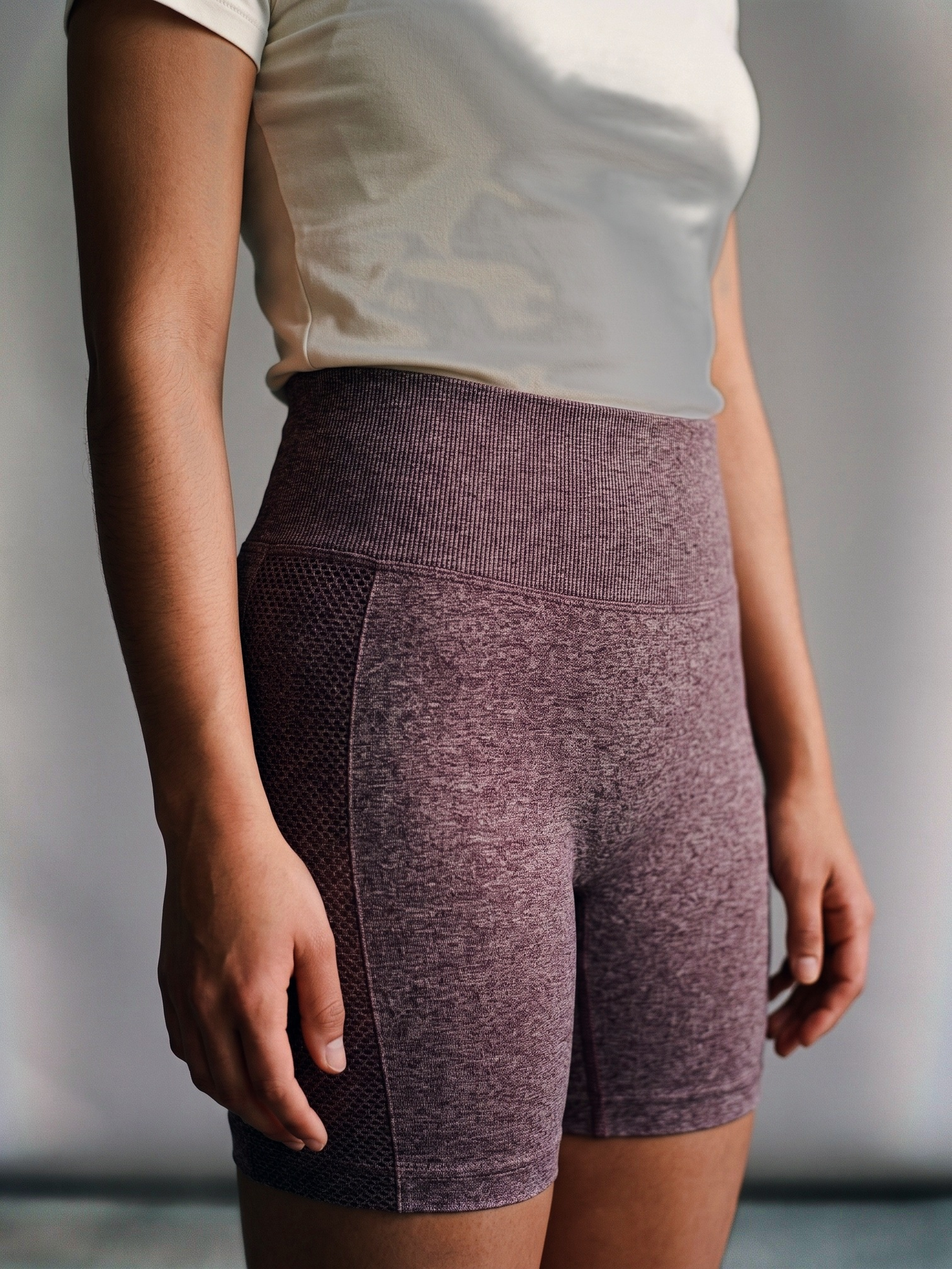
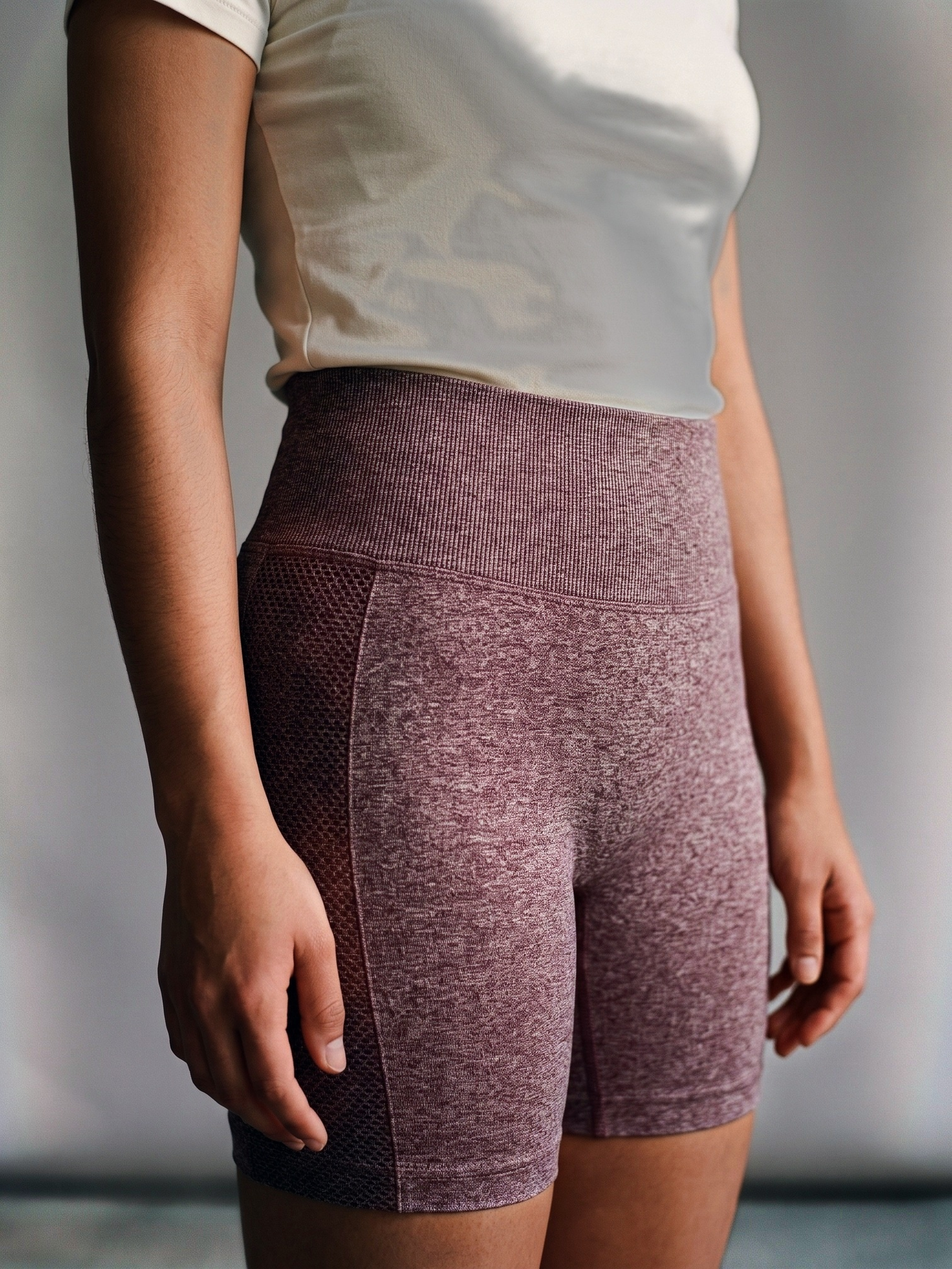
Fix Wine short colour drift; drop the move shot (wrong model)
Two defects caught in review of the just-shipped Stay-Put Short imagery:

1. The four Wine photos were generated as separate Gemini shots and drifted
   apart in garment colour -- hero/move read as a rich dusty wine, back/detail
   read visibly paler and greyer. Added tools/imagery/colormatch.py (a
   garment-masked mean/std colour match to a reference shot, wide feather so
   the mask edge never seams) and used it to re-grade short-wine-back.jpg and
   short-wine-detail.jpg to match short-wine.jpg. Blush's spread was much
   smaller and left alone.

2. short-wine-move.jpg (and its short-blush-move.jpg colourway composite)
   show a visibly different model -- a shoulder-length bob vs. the tied-back
   hair in every other shot. Dropped "-move" from both colourways' `images`
   arrays in products.js rather than ship two different women as the same
   "house model." Files are left on disk, unreferenced, in case that pose
   gets regenerated correctly later.

Cache-buster bumped to v=50 (products.js and this short's own image URLs)
so the corrected files aren't served stale from anyone's cache.

Claude-Session: https://claude.ai/code/session_01TH6XjwVeudERd93hT9p8gq

Changed region(s): [[0.4352, 0.3125, 0.746, 0.9375], [0.746, 0.5625, 0.8082, 0.6562], [0.8082, 0.7188, 0.8393, 0.75]]

diff --git a/assets/products.js b/assets/products.js
@@ -100,10 +100,10 @@ window.COVERLINE_PRODUCTS = [
     modelNote: "Shown in size S on our house model (5\'3\"). Product images are AI-generated; the size chart is the supplier\'s real garment measurements.",
     care: "Seamless stretch knit. Machine wash cold, hang or lay flat to dry. Skip the tumble dryer — it\'s what kills the stretch in every pair you\'ve owned before.",
     colors: [
-      { key: "maroon", label: "Wine", hex: "#946468", image: "/assets/product-images/short-wine.jpg?v=48", images: ["/assets/product-images/short-wine.jpg?v=48", "/assets/product-images/short-wine-move.jpg?v=48", "/assets/product-images/short-wine-back.jpg?v=48", "/assets/product-images/short-wine-detail.jpg?v=48"] },
-      { key: "pink", label: "Blush", hex: "#c59c9d", image: "/assets/product-images/short-blush.jpg?v=48", images: ["/assets/product-images/short-blush.jpg?v=48", "/assets/product-images/short-blush-move.jpg?v=48", "/assets/product-images/short-blush-back.jpg?v=48", "/assets/product-images/short-blush-detail.jpg?v=48"] }
+      { key: "maroon", label: "Wine", hex: "#946468", image: "/assets/product-images/short-wine.jpg?v=50", images: ["/assets/product-images/short-wine.jpg?v=50", "/assets/product-images/short-wine-back.jpg?v=50", "/assets/product-images/short-wine-detail.jpg?v=50"] },
+      { key: "pink", label: "Blush", hex: "#c59c9d", image: "/assets/product-images/short-blush.jpg?v=49", images: ["/assets/product-images/short-blush.jpg?v=49", "/assets/product-images/short-blush-back.jpg?v=49", "/assets/product-images/short-blush-detail.jpg?v=49"] }
     ],
-    image: "/assets/product-images/short-wine.jpg?v=48",
+    image: "/assets/product-images/short-wine.jpg?v=50",
     swatch: function(){ return '<rect width="300" height="400" fill="var(--paper-raised)"/><path d="M0,270 C 100,320 200,240 300,280 L300,400 L0,400 Z" fill="var(--accent-2)" opacity=".5"/><path d="M0,170 C 100,220 200,120 300,180" fill="none" stroke="var(--accent)" stroke-width="1"/>'; }
   }
 ];

diff --git a/product.html b/product.html
@@ -75,7 +75,7 @@
   </div>
 </footer>
 
-<script src="/assets/products.js?v=49"></script>
+<script src="/assets/products.js?v=50"></script>
 <script src="/assets/sizecharts.js?v=2"></script>
 <script src="/assets/reviews.js?v=1"></script>
 <script src="/assets/config.js?v=4"></script>

diff --git a/index.html b/index.html
@@ -100,7 +100,7 @@
   </div>
 </footer>
 
-<script src="/assets/products.js?v=49"></script>
+<script src="/assets/products.js?v=50"></script>
 <script src="/assets/config.js?v=4"></script>
 <script src="/assets/cart.js?v=10"></script>
 <script>

diff --git a/review.html b/review.html
@@ -74,7 +74,7 @@
   </div>
 </footer>
 
-<script src="/assets/products.js?v=49"></script>
+<script src="/assets/products.js?v=50"></script>
 <script src="/assets/config.js?v=4"></script>
 <script src="/assets/cart.js?v=10"></script>
 <script>

diff --git a/404.html b/404.html
@@ -46,7 +46,7 @@
   </div>
 </footer>
 
-<script src="/assets/products.js?v=49"></script>
+<script src="/assets/products.js?v=50"></script>
 <script src="/assets/config.js?v=4"></script>
 <script src="/assets/cart.js?v=10"></script>
 </body>

diff --git a/privacy.html b/privacy.html
@@ -85,7 +85,7 @@
   </div>
 </footer>
 
-<script src="/assets/products.js?v=49"></script>
+<script src="/assets/products.js?v=50"></script>
 <script src="/assets/config.js?v=4"></script>
 <script src="/assets/cart.js?v=10"></script>
 </body>

diff --git a/shipping-returns.html b/shipping-returns.html
@@ -78,7 +78,7 @@
   </div>
 </footer>
 
-<script src="/assets/products.js?v=49"></script>
+<script src="/assets/products.js?v=50"></script>
 <script src="/assets/config.js?v=4"></script>
 <script src="/assets/cart.js?v=10"></script>
 </body>

diff --git a/terms.html b/terms.html
@@ -92,7 +92,7 @@
   </div>
 </footer>
 
-<script src="/assets/products.js?v=49"></script>
+<script src="/assets/products.js?v=50"></script>
 <script src="/assets/config.js?v=4"></script>
 <script src="/assets/cart.js?v=10"></script>
 </body>

diff --git a/tools/imagery/colormatch.py b/tools/imagery/colormatch.py
@@ -1,0 +1,61 @@
+#!/usr/bin/env python3
+"""One-off fix (14 Sep 2026): the four Wine short photos (hero/move/back/detail) were generated as
+separate Gemini shots and drifted apart in garment colour/exposure -- hero and move read as a rich
+dusty wine, back and detail read visibly paler/greyer. This re-grades the garment pixels of the
+non-reference shots to match the reference shot's garment colour, leaving skin/shirt/background
+untouched.
+
+Garment isolation: for this fabric, G-B is small/negative (desaturated mauve/wine) while skin has a
+clearly positive G-B (warm undertone) and shirt/background are near-neutral but far brighter or
+duller than the garment tone band. Largest-connected-component cleans up stray matches (hair, shadow
+creases). Correction is a per-channel mean+std match (Reinhard-style) computed over the garment mask
+only, applied with a feathered mask so the edge blends.
+
+usage: python3 colormatch.py ref.jpg target.jpg out.jpg
+"""
+import sys, numpy as np
+from PIL import Image, ImageFilter
+from scipy import ndimage
+
+def _blur(a, r):
+    return np.asarray(Image.fromarray(np.clip(a,0,255).astype(np.uint8)).filter(ImageFilter.GaussianBlur(r))).astype(float)
+
+def _dilate(mask, r):
+    return np.asarray(Image.fromarray((mask*255).astype(np.uint8)).filter(ImageFilter.MaxFilter(int(r)|1))) > 127
+
+def garment_mask(img):
+    R,G,B = img[...,0], img[...,1], img[...,2]
+    raw = (R - G > 6) & ((G - B) < 8) & (R > 35) & (R < 235)
+    soft = _blur(raw.astype(float)*255, 2.0) > 120
+    lab, n = ndimage.label(soft)
+    if n == 0:
+        return soft
+    sizes = ndimage.sum(soft, lab, range(1, n+1))
+    best = int(np.argmax(sizes)) + 1
+    blob = lab == best
+    blob = ndimage.binary_fill_holes(blob)
+    blob = _dilate(blob, 9)  # reclaim brighter/highlight garment edges the colour test under-caught
+    return blob
+
+def stats(img, mask):
+    px = img[mask]
+    return px.mean(axis=0), px.std(axis=0) + 1e-6
+
+def main():
+    ref_p, tgt_p, out_p = sys.argv[1], sys.argv[2], sys.argv[3]
+    ref = np.asarray(Image.open(ref_p).convert('RGB')).astype(float)
+    tgt = np.asarray(Image.open(tgt_p).convert('RGB')).astype(float)
+    rmask = garment_mask(ref)
+    tmask = garment_mask(tgt)
+    rmean, rstd = stats(ref, rmask)
+    tmean, tstd = stats(tgt, tmask)
+    scale = np.clip(rstd / tstd, 0.6, 1.6)
+    corrected = rmean + (tgt - tmean) * scale
+    corrected = np.clip(corrected, 0, 255)
+    alpha = _blur(tmask.astype(float) * 255, 18.0) / 255.0  # wide feather: any residual mask gap fades smoothly instead of seaming
+    alpha = alpha[..., None]
+    out = tgt * (1 - alpha) + corrected * alpha
+    Image.fromarray(np.clip(out, 0, 255).astype(np.uint8)).save(out_p, quality=95)
+    print(f"{tgt_p}: garment px={int(tmask.sum())}  before={tmean.round(1)}  ref={rmean.round(1)}  after-mask-mean={corrected[tmask].mean(axis=0).round(1)}")
+
+main()
